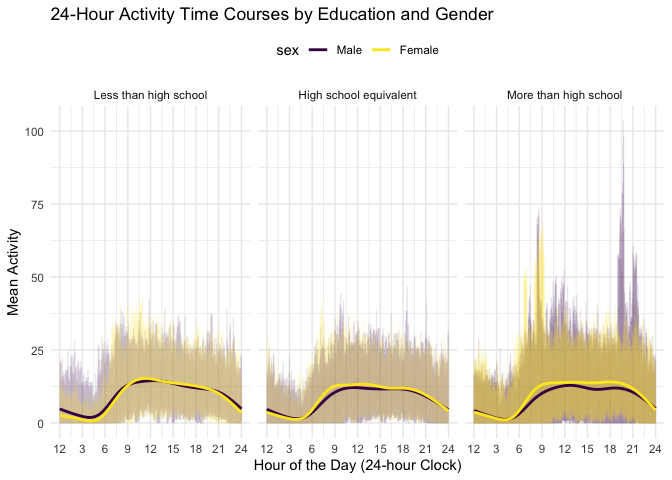
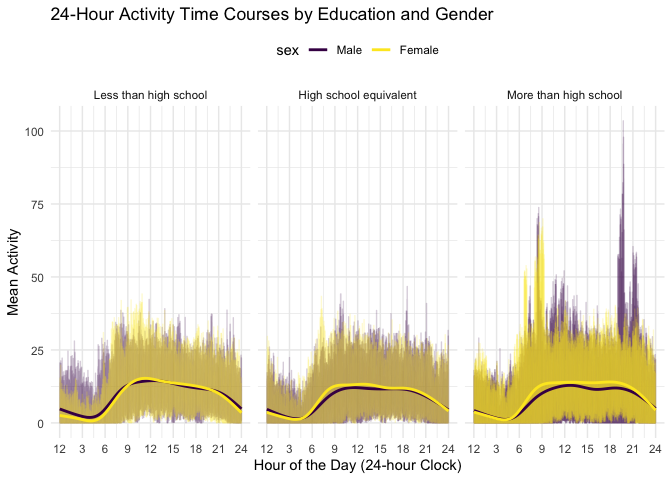
new

Changed region(s): [[0.0625, 0.4375, 1.0, 0.9062]]

diff --git a/p8105_hw3_dw3093.md b/p8105_hw3_dw3093.md
@@ -206,19 +206,21 @@ merged_df |>
 The plot shows the age distribution by gender across three education
 categories.
 
-Across all categories, females tend to cluster in older age ranges
-(60-80), especially in the higher education group, while males (purple)
-show a more even spread across ages.
+People in the ‘less than high school’ group are generally older, with
+the density peaking around age 60 for both genders. The distribution is
+similar for males and females, but females have a slightly higher
+density in older age ranges.
 
-In the less than high school group, both genders peak around ages 60-70,
-with more females in the older range.
+People in the ‘high school equivalent’ shows the peak of the age
+distribution is around 50 years. The pattern for males and females is
+quite similar, though females have a slightly higher density, indicating
+a larger proportion of women in this age group with a high school
+equivalent education.
 
-The high school equivalent group shows a bimodal pattern for males
-(peaks at 40 and 60) but a more consistent peak for females in older
-ages.
-
-In the more than high school group, females concentrate between 60-70,
-while males have a broader age spread, especially in 20-40.
+in the ‘more than high school’ shows that individuals with more than
+high school education tend to be younger, with a peak density in the
+30-40 age range. Females have a higher density compared to males,
+suggesting more women achieve higher education levels at a younger age.
 
 # Plot total activities vs. age
 
@@ -247,26 +249,20 @@ merged_df |>
 
 ![](p8105_hw3_dw3093_files/figure-gfm/unnamed-chunk-11-1.png)<!-- -->
 
-- In the “less than high school” group, females initially have higher
-  activity levels, but their activity sharply declines after age 60,
-  eventually falling below that of males, who show a more gradual
-  decline with age.
+For the group of ‘less than high school,’ total activity decreases with
+age for both males and females. Males generally maintain higher activity
+levels than females until around age 60, after which both genders
+converge at a similar lower activity level.
 
-- In the “high school equivalent” group, females are more active than
-  males at younger ages, but their activity decreases more steeply after
-  age 50, converging with male levels by age 60. Males exhibit a
-  steadier decline across age in this group.
+For the ‘high school equivalent’ group, activity levels show a notable
+peak in the 30-40 age range for both genders, with females having a
+higher activity peak than males. After age 60, total activity declines
+for both genders, eventually converging.
 
-- In the “high school equivalent” and “more than high school” groups,
-  females have notably higher activity in their 20s and 30s but diminish
-  by age 60, where male and female activity levels converge and decline
-  together.
-
-- Overall, females tend to be more active in their younger years, while
-  males experience more gradual decreases in activity, often maintaining
-  higher levels in older age, particularly in the lower education
-  groups, which indicates that both gender and education influence
-  activity trends as people age.
+For the group of ‘more than high school,’ females generally maintain
+higher activity levels across most ages, with a consistent difference
+between males and females until around age 70, when the activity levels
+converge.
 
 \#create a three-panel plot that shows the 24-hour activity time courses
 for each education level
@@ -283,7 +279,7 @@ hourly_act <- merged_df |>
          hour = minute / 60)
 
 ggplot(hourly_act, aes(x = hour, y = activity_level, color = sex)) +
-  geom_line(alpha=.1) +
+  geom_line(alpha=.2) +
   geom_smooth(aes(group = sex), se = FALSE) +
   facet_wrap(~education) +
   scale_x_continuous(breaks = seq(0, 24, by = 3), 
@@ -452,7 +448,7 @@ year on median ride duration
     color = "Month"
   ) +
   theme_minimal() +
-  theme(axis.text.x = element_text(angle = 45), 
+  theme(axis.text.x = element_text(angle = 45, hjust = 1), 
         legend.position = "bottom")
 ```
 
